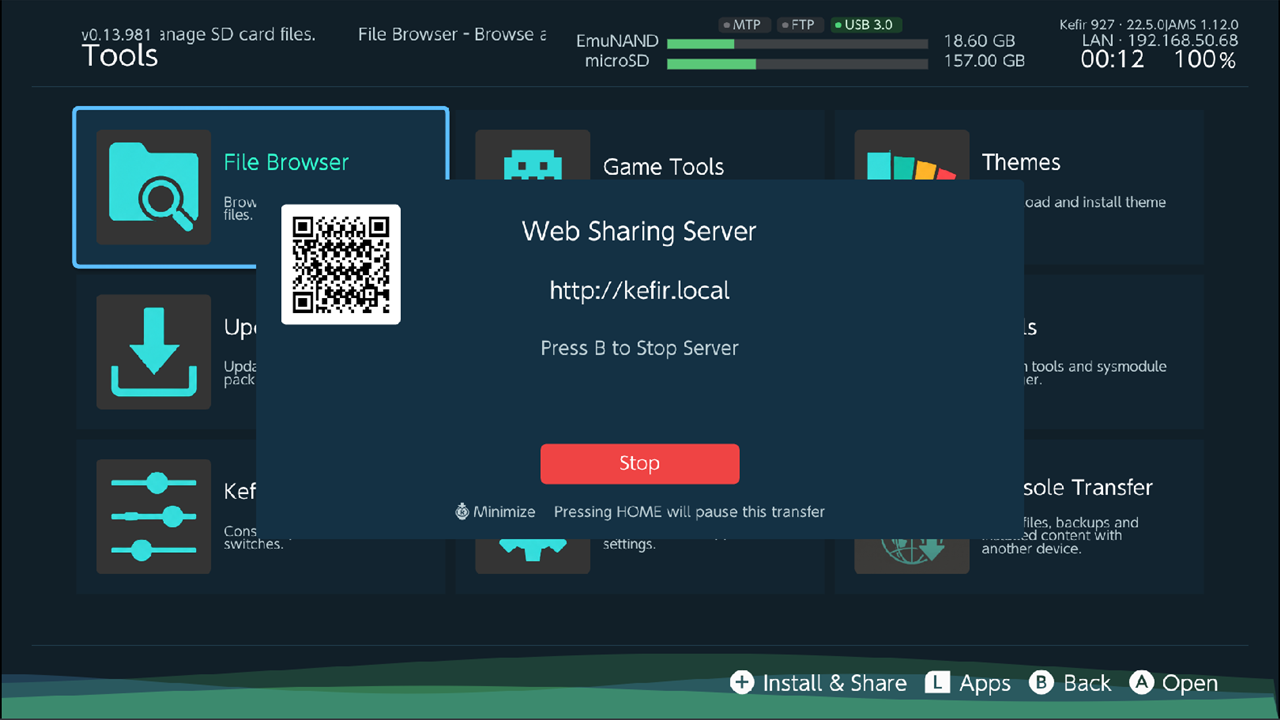
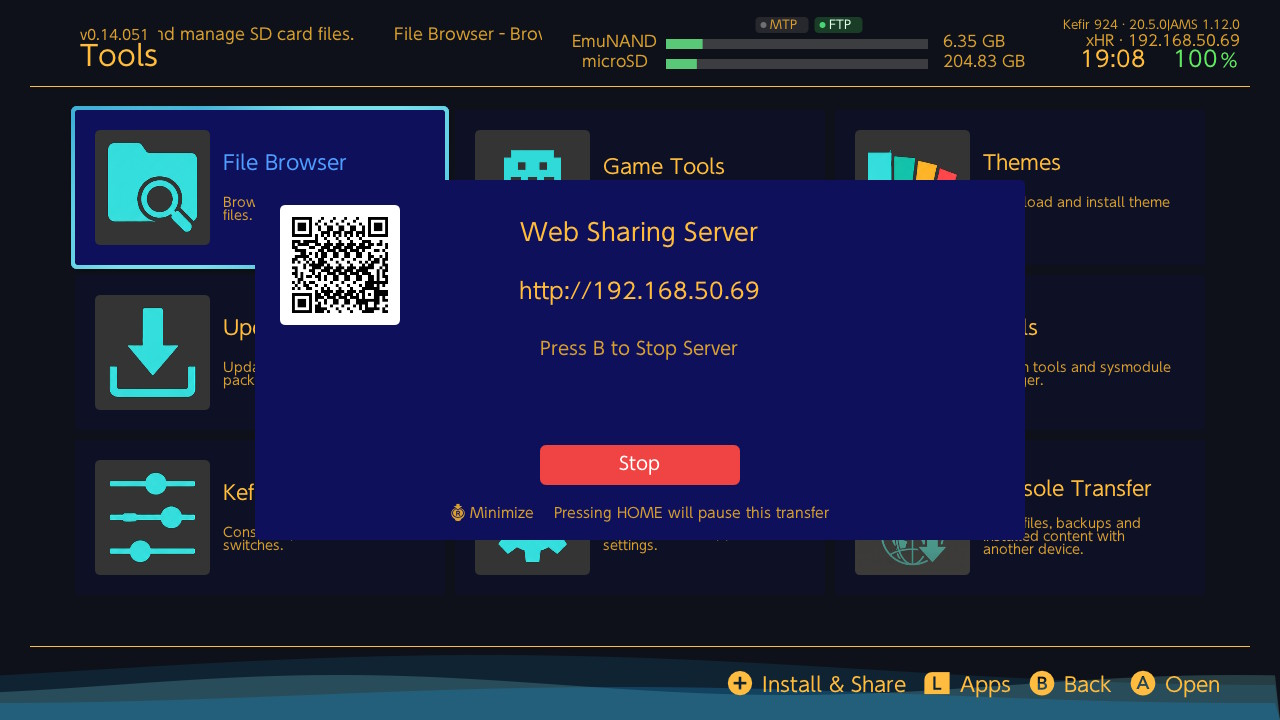
v0.14.051: QR windows show the console IP address (typing from a phone, web server, SteamGridDB key); docs drafts for 0.14.047-051 and new console shots

diff --git a/sphaira/source/ui/menus/install_share.cpp b/sphaira/source/ui/menus/install_share.cpp
@@ -53,7 +53,7 @@ void StartShareServerNow() {
             App::Notify("Web listener started, but its local self-test failed; check the log or use Title Mode"_i18n);
         }
 
-        WebPushServerProgressBox(result.url, result.qr_image, "Web Sharing Server"_i18n);
+        WebPushServerProgressBox(result.ip_url, result.qr_image, "Web Sharing Server"_i18n);
     });
 }
 
@@ -97,7 +97,7 @@ void StartConsoleTransferShare(const std::vector<fs::FsPath>& targets) {
             return;
         }
 
-        WebPushServerProgressBox(result.url, result.qr_image, "Console Transfer"_i18n);
+        WebPushServerProgressBox(result.ip_url, result.qr_image, "Console Transfer"_i18n);
     });
 }
 

diff --git a/sphaira/source/ui/remote_input.cpp b/sphaira/source/ui/remote_input.cpp
@@ -191,10 +191,8 @@ void RequestRemoteText(const Options& options, OnCompleteCallback on_complete) {
     }
 
     // kefir.local is friendly but not every phone resolves it; the IP always works (the QR uses it).
-    auto shown_url = share.url;
-    if (share.ip_url != share.url) {
-        shown_url += "  |  " + share.ip_url.substr(share.ip_url.find("://") + 3);
-    }
+    // One short address: two of them did not fit the line and scrolled away.
+    const auto shown_url = share.ip_url.substr(share.ip_url.find("://") + 3);
     App::Push<ProgressBox>(
         share.qr_image, options.title, shown_url,
         [on_complete](auto pbox) -> Result {

diff --git a/sphaira/source/ui/progress_box_draw.cpp b/sphaira/source/ui/progress_box_draw.cpp
@@ -280,7 +280,7 @@ auto ProgressBox::Draw(NVGcontext* vg, Theme* theme) -> void {
     draw_text(m_scroll_action, action, m_pos.y + 40, 24, 160, ThemeEntryID_TEXT);
     draw_text(m_scroll_title, title, m_pos.y + 100, 22, 160, ThemeEntryID_TEXT);
     if (!transfer.empty()) {
-        draw_text(m_scroll_transfer, transfer, m_pos.y + 160, 18, 30, ThemeEntryID_TEXT_INFO);
+        draw_text(m_scroll_transfer, transfer, m_pos.y + 160, 18, 12, ThemeEntryID_TEXT_INFO);
     }
 
     // every transfer gets a stop button, including one with a known total: a

diff --git a/sphaira/source/ui/steamgriddb_icon.cpp b/sphaira/source/ui/steamgriddb_icon.cpp
@@ -73,7 +73,7 @@ void RequestApiKey(std::function<void(std::string)> on_key) {
     }
 
     App::Push<ProgressBox>(
-        share.qr_image, "SteamGridDB API key"_i18n, share.url,
+        share.qr_image, "SteamGridDB API key"_i18n, share.ip_url.substr(share.ip_url.find("://") + 3),
         [](auto pbox) -> Result {
             pbox->NewTransferForce(App::IsApplet()
                 ? "Applet Mode: keep this screen open; use the same non-guest Wi-Fi. Press B to cancel."_i18n

diff --git a/sphaira/source/ui/menus/console_games_transfer.cpp b/sphaira/source/ui/menus/console_games_transfer.cpp
@@ -87,7 +87,7 @@ void StartSharing(std::vector<u64> ids) {
             return;
         }
 
-        WebPushServerProgressBox(result.url, result.qr_image, "Send installed games"_i18n);
+        WebPushServerProgressBox(result.ip_url, result.qr_image, "Send installed games"_i18n);
     });
 }
 

diff --git a/docs/site/en/file-browser.md b/docs/site/en/file-browser.md
@@ -160,6 +160,20 @@ the cursor. The same settings are in [[Settings]] → [[Sources]], see [Settings
 - v0.14.046: a .zip opens as a folder on every source, a network share included (A on the file); [[Restore save data]] is offered for a .zip
 -->
 
+<!-- draft
+- v0.14.047: on FTP, [[Delete]] on a folder removes it with everything inside; Cut / Paste inside a share moves; Paste onto a name that exists asks [[Replace?]]
+- v0.14.047: [[Extract selection]] in an archive is offered only when the .zip lives on the memory card; an archive on a network share can be browsed and its files viewed, but not extracted onto the card (copy the .zip to the card first)
+- v0.14.047: a .zip opens as a folder on the memory card and on network shares (not on USB drives)
+- v0.14.047: the title keeps the source name (`FTP:/`, `WebDAV:/photos`) when you walk up out of a folder
+- Limits to state plainly: FTP [[Create File]] makes no file (an empty file cannot be uploaded; [[Create Folder]] works); NFS is read-only; SMB connects to port 445 only (no port field); an archive on an HTTP server opens only when the server supports byte ranges (nginx and Apache do; a quick `python -m http.server` does not)
+- v0.14.050: sources in [[Settings]] → [[Sources]]: **+** ([[Options]]) → [[Enter/Connect]] opens the File Browser on that source for every protocol (SMB, NFS, WebDAV, FTP, HTTP); before it said browsing was not supported for FTP, HTTP and WebDAV
+- v0.14.051: the windows with a QR code (typing from a phone or PC, Web Sharing Server, Console Transfer, SteamGridDB API key) show the console's IP address (for example `192.168.50.69/input`), the same address the QR code opens; `kefir.local` is no longer shown there because many phones cannot find `.local` names
+-->
+
+<!-- shot: file-browser-add-source | Source settings page of a network source: Name, Protocol, Server IP / Hostname, Port, Username, Password, Test Connection -->
+<!-- shot: file-browser-remote-input | Wait screen for typing from a phone: QR code, the console IP address, "Press B to cancel" -->
+<!-- shot: file-browser-network-list | File Browser on an FTP source: title FTP:/ and a list of folders and files with real sizes -->
+
 <!-- shot: file-browser-sources | Sources panel: Mount list with microSD card, a USB drive and an SMB share -->
 
 ## Browse a ZIP archive

diff --git a/docs/site/uk/file-browser.md b/docs/site/uk/file-browser.md
@@ -163,6 +163,20 @@
 - v0.14.046: a .zip opens as a folder on every source, a network share included (A on the file); [[Restore save data]] is offered for a .zip
 -->
 
+<!-- draft
+- v0.14.047: on FTP, [[Delete]] on a folder removes it with everything inside; Cut / Paste inside a share moves; Paste onto a name that exists asks [[Replace?]]
+- v0.14.047: [[Extract selection]] in an archive is offered only when the .zip lives on the memory card; an archive on a network share can be browsed and its files viewed, but not extracted onto the card (copy the .zip to the card first)
+- v0.14.047: a .zip opens as a folder on the memory card and on network shares (not on USB drives)
+- v0.14.047: the title keeps the source name (`FTP:/`, `WebDAV:/photos`) when you walk up out of a folder
+- Limits to state plainly: FTP [[Create File]] makes no file (an empty file cannot be uploaded; [[Create Folder]] works); NFS is read-only; SMB connects to port 445 only (no port field); an archive on an HTTP server opens only when the server supports byte ranges (nginx and Apache do; a quick `python -m http.server` does not)
+- v0.14.050: sources in [[Settings]] → [[Sources]]: **+** ([[Options]]) → [[Enter/Connect]] opens the File Browser on that source for every protocol (SMB, NFS, WebDAV, FTP, HTTP); before it said browsing was not supported for FTP, HTTP and WebDAV
+- v0.14.051: the windows with a QR code (typing from a phone or PC, Web Sharing Server, Console Transfer, SteamGridDB API key) show the console's IP address (for example `192.168.50.69/input`), the same address the QR code opens; `kefir.local` is no longer shown there because many phones cannot find `.local` names
+-->
+
+<!-- shot: file-browser-add-source | Source settings page of a network source: Name, Protocol, Server IP / Hostname, Port, Username, Password, Test Connection -->
+<!-- shot: file-browser-remote-input | Wait screen for typing from a phone: QR code, the console IP address, "Press B to cancel" -->
+<!-- shot: file-browser-network-list | File Browser on an FTP source: title FTP:/ and a list of folders and files with real sizes -->
+
 <!-- shot: file-browser-sources | Sources panel: Mount list with microSD card, a USB drive and an SMB share -->
 
 ## Перегляд ZIP-архіву

diff --git a/docs/dev/CHANGELOG.md b/docs/dev/CHANGELOG.md
@@ -3,6 +3,10 @@
 Newest first. One heading per version; add 1-3 lines per delivery (see AGENTS.md).
 Entries without a detail line are commit titles only; their verification state was not recorded.
 
+## v0.14.051 — Server and typing windows show the console IP address (not kefir.local); SteamGridDB API key window too
+- Found with an outside report (SteamGridDB API key: "the QR leads to a local site that goes nowhere") and on the console: the wait screen for typing from a phone showed `kefir.local/input | 192.168.50.69/input` on one line that did not fit and scrolled away, and the Web Sharing Server / SteamGridDB windows still showed `http://kefir.local` (many Android phones cannot resolve `.local`; the QR already used the IP since 0.14.045). The hint line under the address is 12 px from the box edge instead of 30 (`progress_box_draw.cpp`), so the English hint no longer scrolls. Now `remote_input.cpp`, `steamgriddb_icon.cpp` and `WebPushServerProgressBox` callers (`install_share.cpp`, `console_games_transfer.cpp`) show the IP address that the QR opens.
+- host tests: pass (quick) · nro: built · switch: verified — on the console the wait screen shows `192.168.50.69/input` and the hint fits (EN; UK hint is longer and still scrolls), the Web Sharing Server window shows `http://192.168.50.69` (EN, UK). Not tried from a phone; the SteamGridDB window uses the same code path. New doc shots taken from the console: `file-browser-add-source`, `file-browser-network-list`, `file-browser-remote-input`, `sharing-web-server` (EN, UK); drafts for 0.14.047-0.14.051 on the File Browser and Sharing pages.
+
 ## v0.14.050 — Settings > Sources > Options > Enter/Connect opens every configured protocol (it said "Browsing is not supported for this protocol yet." for FTP, HTTP and WebDAV)
 - `settings_menu.cpp`: the menu entry opens the File Browser on the location, like the row itself does. The string stays in i18n (unused keys are not removed here).
 - host tests: not run (one branch removed) · nro: not built (change is a deleted branch) · switch: pending.

diff --git a/docs/site/uk/sharing.md b/docs/site/uk/sharing.md
@@ -30,7 +30,11 @@
    в адресі буде порт від 8080 до 8090, наприклад `http://kefir.local:8080`.
 4. Відскануйте QR-код телефоном або введіть адресу в браузері на ПК у тій самій мережі.
 
-<!-- shot: sharing-web-server | Web Sharing Server window: QR code, address http://kefir.local, "Press B to Stop Server" -->
+<!-- draft
+- v0.14.051: the [[Web Sharing Server]] window shows the console's IP address (for example `http://192.168.50.69`, with a port when 80 is taken), the address the QR code opens; it no longer shows `kefir.local`, which many phones cannot find. The text about `kefir.local` in this section and in Troubleshooting must say: use the address shown in the window
+-->
+
+<!-- shot: sharing-web-server | Web Sharing Server window: QR code, the console IP address, "Press B to Stop Server" -->
 
 Якщо адреса з `kefir.local` не відкривається, використайте IP-адресу, яку видно вгорі екрана консолі, наприклад
 `http://192.168.1.5` (додайте `:8080` або той порт, що був в адресі).

diff --git a/docs/site/en/sharing.md b/docs/site/en/sharing.md
@@ -28,7 +28,11 @@ To move data to a second console, see [Console Transfer](console-transfer.md).
    is taken, the address has a port from 8080 to 8090, for example `http://kefir.local:8080`.
 4. Scan the QR code with a phone, or type the address into a browser on a PC on the same network.
 
-<!-- shot: sharing-web-server | Web Sharing Server window: QR code, address http://kefir.local, "Press B to Stop Server" -->
+<!-- draft
+- v0.14.051: the [[Web Sharing Server]] window shows the console's IP address (for example `http://192.168.50.69`, with a port when 80 is taken), the address the QR code opens; it no longer shows `kefir.local`, which many phones cannot find. The text about `kefir.local` in this section and in Troubleshooting must say: use the address shown in the window
+-->
+
+<!-- shot: sharing-web-server | Web Sharing Server window: QR code, the console IP address, "Press B to Stop Server" -->
 
 If the address with `kefir.local` does not open, use the IP address shown at the top of the console screen,
 for example `http://192.168.1.5` (add `:8080` or the port the address had).
